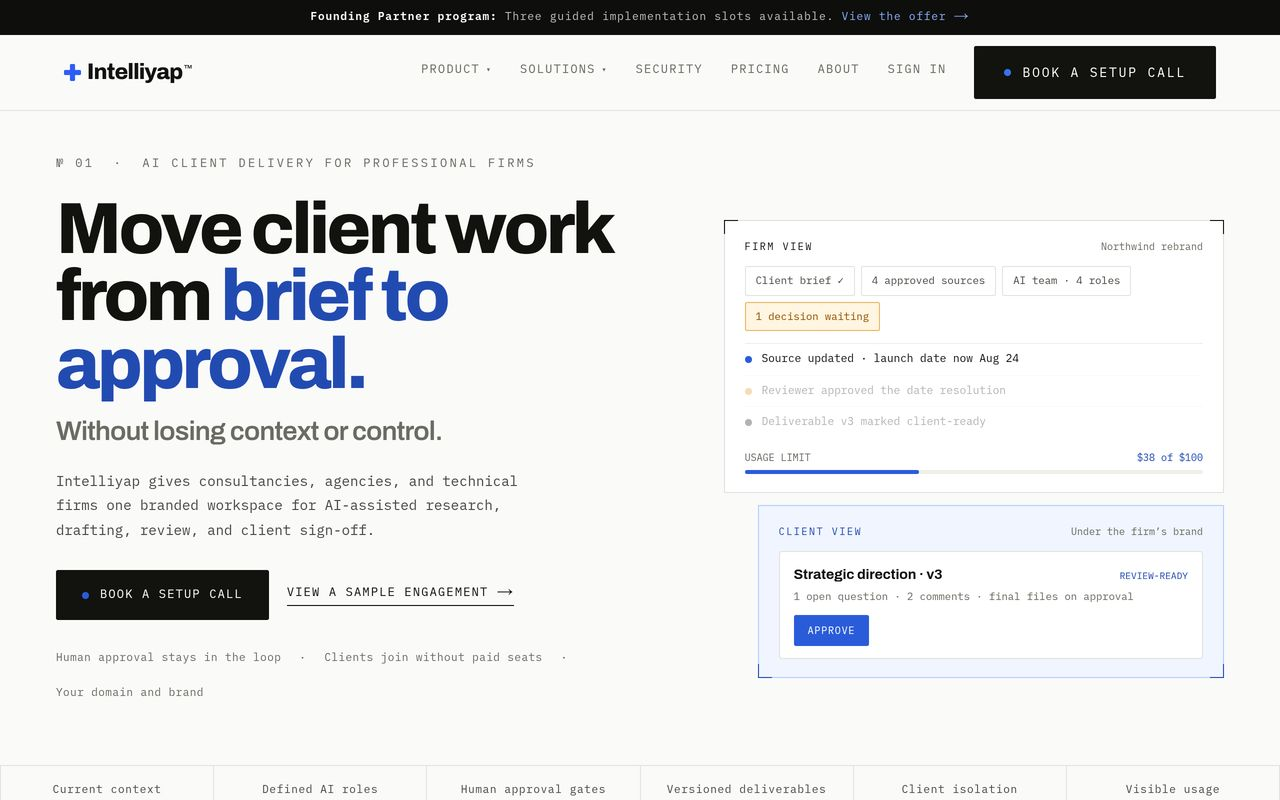
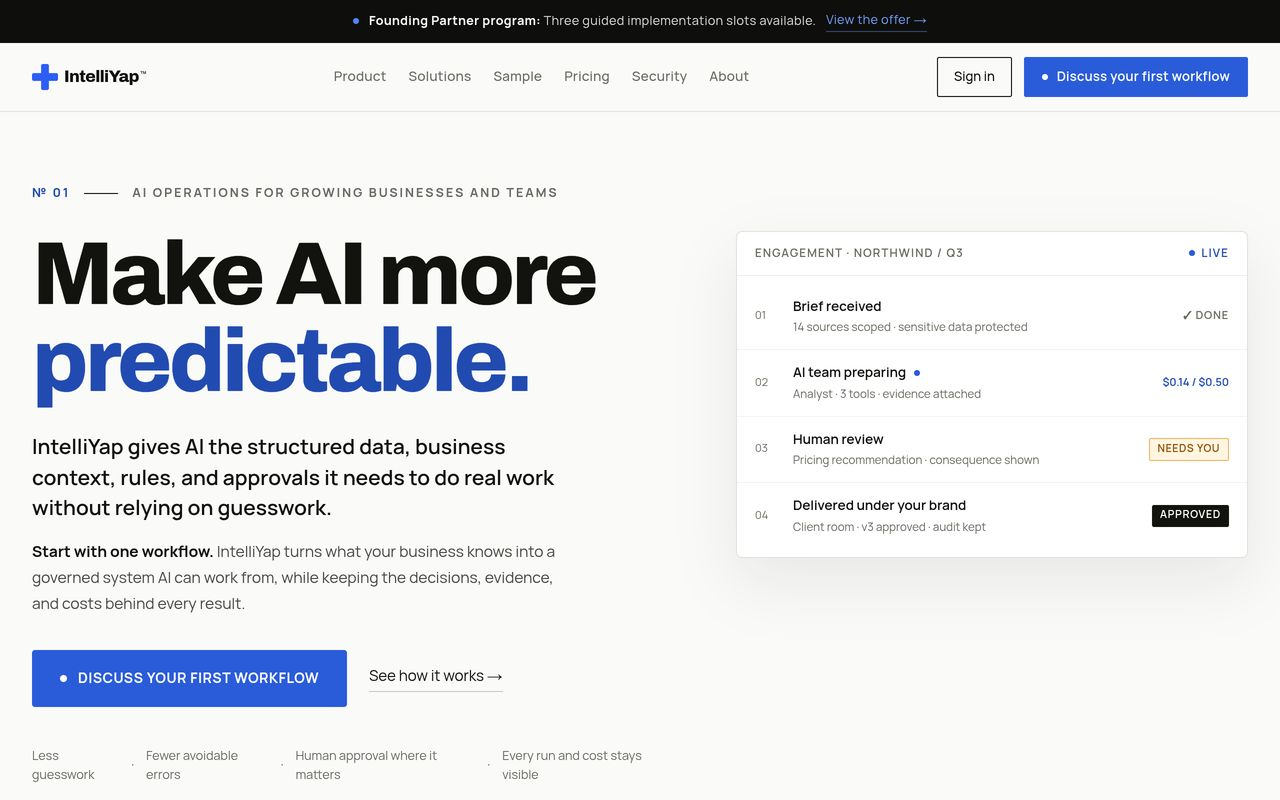
Add blog post: Three pivots and a lowercase k (August across the sites)
Roundup of the month since the eleven-sites post: the Lootrunners,
IntelliYap and Kayrage repositionings, the Jupiter Wax six-wave
redesign, the 312 Built brief and trust pass, 312 Eats group dinners,
the Postgres 17 fleet upgrade, and this site's audit. Refreshes the
Kayrage / IntelliYap / Lootrunners / Jupiter Wax preview shots since
all four look different now.

Claude-Session: https://claude.ai/code/session_01MMcLy8LwPgDDrerEqnmSpK

diff --git a/content/blog/registry.tsx b/content/blog/registry.tsx
@@ -15,6 +15,7 @@ import type { MDXComponents } from "mdx/types";
 import { SitePreview } from "@/components/mdx/SitePreview";
 import { Rive } from "@/components/mdx/Rive";
 
+import Pivots, { meta as pivots } from "./posts/three-pivots-and-a-lowercase-k.mdx";
 import Feels, { meta as feels } from "./posts/one-day-128-feelings.mdx";
 import Eleven, { meta as eleven } from "./posts/eleven-sites-one-operator.mdx";
 import Fable5, { meta as fable5 } from "./posts/letting-fable-5-loose.mdx";
@@ -51,6 +52,7 @@ type MDXContent = ComponentType<{ components?: MDXComponents }>;
 // `satisfies` typo-proofs every meta against the BlogPost shape at
 // compile time — a missing field in an MDX meta fails tsc, not prod.
 const entries = [
+  [pivots, Pivots],
   [feels, Feels],
   [eleven, Eleven],
   [fable5, Fable5],
